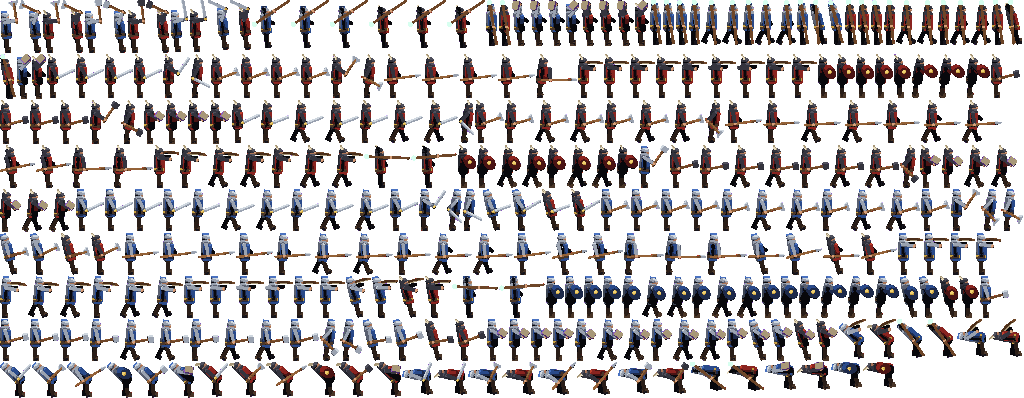
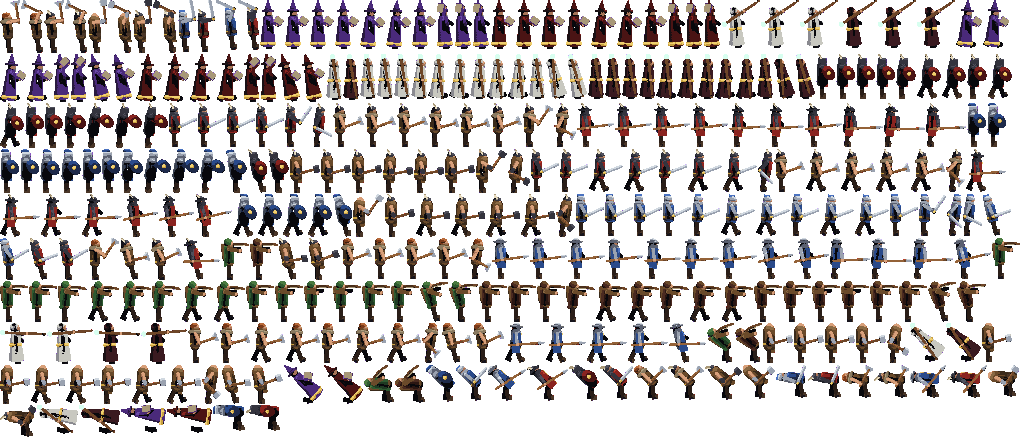
Fighter outfits per weapon; short numbers everywhere
Each weapon is its own kind of fighter on the battlefield: knight (Sword), berserker (Axe), pikeman (Spear),
ranger (Bow), healer (Staff), guard (Shield), forge brute (Warhammer) and wizard (Grimoire), in hero and foe colours.
Every number past 9,999 on screen now reads short the way the top bar does (12.3k, 4.5M, 6.7B), including stats,
power, the battle log and damage numbers; the top bar abbreviates from 10k too.

diff --git a/splat/art/toy-unit.js b/splat/art/toy-unit.js
@@ -1,7 +1,8 @@
 // Blacksmith Battles: one fighter for the Fight field, seen side on and facing right (the toy flips foes to face left).
 // Rendered alone against a flat backdrop, so tools/pack.py keeps just the figure as a cut-out.
 // Environment variables: UNIT_ARCH = Sword | Axe | Spear | Bow | Staff | Shield | Warhammer | Grimoire (what they carry),
-// UNIT_SIDE = hero | foe (blue tabard and bright steel, or a red tabard, dark iron and a horned helm), UNIT_NONE=1 draws only the backdrop.
+// UNIT_SIDE = hero | foe (bright steel and blue, or dark iron, red and horns), UNIT_NONE=1 draws only the backdrop. Each weapon has its own outfit:
+// knight (Sword), berserker (Axe), pikeman (Spear), ranger (Bow), healer (Staff), guard (Shield), forge brute (Warhammer), wizard (Grimoire).
 // The clip: idle 0-1 s (breathing), walk 1-2 (one full stride), attack 2-2.6 (the weapon's own move), hurt 3-3.3, down 4-4.5 (falls back).
 module.exports = ({ makeBuilder, makeSculpt, KIT: K }) => {
   const PAL = [
@@ -16,7 +17,16 @@ module.exports = ({ makeBuilder, makeSculpt, KIT: K }) => {
     0x2a5a3a, 0x7ae0b0, 0xd8fff0, // 24-26 staff gem
     0x4a2a6a, 0x8a5ac0, 0xd0b0ff, // 27-29 grimoire
     0xe8dcc0, 0xa89878, // 30-31 parchment, bowstring
-    0xff00ff // 32 backdrop (never in a figure)
+    0xff00ff, // 32 backdrop (never in a figure)
+    0x3a2a1a, 0x6a4a2a, 0x8a6a44, // 33-35 leather
+    0x5a4a38, 0x8a7a60, 0xb0a080, // 36-38 fur
+    0x1e3a22, 0x2e5a30, 0x4a7a40, // 39-41 ranger green
+    0x8a8a90, 0xc8c8c0, 0xeeeee4, // 42-44 white robe
+    0x2a1a40, 0x4a2a7a, 0x6a4aa8, // 45-47 wizard violet
+    0x3a2010, 0x7a3a1a, 0xb86a3a, // 48-50 hair, dark to ginger
+    0x6a6a6a, 0xb0b0b0, // 51-52 grey beard
+    0x2a1612, 0x4a2a20, // 53-54 brigand brown
+    0x1a1014, 0x3a1a20, 0x5a2028 // 55-57 cultist black-red
   ];
   function build(seed) {
     const env = (typeof process !== 'undefined' && process.env) || {};
@@ -34,27 +44,90 @@ module.exports = ({ makeBuilder, makeSculpt, KIT: K }) => {
     const ARM = FOE ? { r: [0, 10, 11, 12] } : { r: [0, 6, 7, 8, 9] };
     const CLOTH = FOE ? { r: [0, 16, 17, 18] } : { r: [0, 13, 14, 15] };
     const WOOD = { r: [0, 19, 20, 21] }, STEEL = { r: [0, 7, 8, 9] }, GOLD = { r: [0, 22, 23] };
+    let SLEEVE = ARM;
     if (!NONE) {
       // legs: near (z+) and far (z-), each hangs from the hip
       for (const [tag, z] of [['legF', 0.07], ['legB', -0.07]]) {
         S.tube([[0, 0.62, z], [0, 0.08, z]], 0.06, 0.055, TROUS, { tag, res: 0.012 });
         S.box([0.04, 0.05, z], [0.09, 0.05, 0.05], BOOT, { tag, res: 0.012 });
       }
-      // body: mail shirt, tabard over it, belt, head and helm
-      S.tube([[0, 0.58, 0], [0, 1.1, 0]], 0.15, 0.14, ARM, { tag: 'body', res: 0.014 });
-      S.box([0.05, 0.78, 0], [0.12, 0.27, 0.15], CLOTH, { tag: 'body', res: 0.012 });
-      S.box([0.0, 0.62, 0], [0.155, 0.03, 0.155], { r: [0, 3, 22] }, { tag: 'body', res: 0.01 });
-      S.ball([0.02, 1.24, 0], 0.11, SKIN, { tag: 'body', res: 0.012 });
-      S.ball([0.0, 1.29, 0], [0.125, 0.09, 0.125], ARM, { tag: 'body', res: 0.01 });
-      S.box([0.1, 1.24, 0], [0.02, 0.06, 0.01], ARM, { tag: 'body', res: 0.008 }); // nose guard
-      if (FOE) for (const sz of [-1, 1]) S.tube([[-0.02, 1.33, sz * 0.09], [-0.1, 1.48, sz * 0.15]], 0.025, 0.006, { r: [0, 30, 31] }, { tag: 'body', res: 0.008 });
-      else S.box([-0.02, 1.4, 0], [0.09, 0.03, 0.015], CLOTH, { tag: 'body', res: 0.008 }); // crest
+      // the body, dressed for the weapon they carry: every weapon is its own kind of fighter
+      const LEATHER = { r: [0, 33, 34, 35] }, FUR = { r: [0, 36, 37, 38] };
+      const HOOD = FOE ? { r: [0, 53, 54, 34] } : { r: [0, 39, 40, 41] };
+      const ROBE = FOE ? { r: [0, 55, 56, 57] } : { r: [0, 42, 43, 44] };
+      const WIZ = FOE ? { r: [0, 55, 16, 17] } : { r: [0, 45, 46, 47] };
+      const HAIR = FOE ? { r: [0, 1, 48] } : { r: [0, 48, 49, 50] }, GREY = { r: [0, 51, 52] };
+      const b = { tag: 'body', res: 0.012 }, f = { tag: 'body', res: 0.008 };
+      const horns = (y, wide) => { if (FOE) for (const sz of [-1, 1]) S.tube([[-0.02, y, sz * 0.09], [-0.1, y + 0.15, sz * (wide || 0.15)]], 0.025, 0.006, { r: [0, 30, 31] }, f); };
+      const robe = (m, top) => { S.lathe([0, 0.1, 0], top - 0.1, t => 0.25 - 0.12 * t, m, b); };
+      SLEEVE = ARM;
+      S.ball([0.02, 1.24, 0], 0.11, SKIN, b); // the head
+      if (ARCH === 'Sword') { // knight: mail, tabard, round helm with a crest
+        S.tube([[0, 0.58, 0], [0, 1.1, 0]], 0.15, 0.14, ARM, { tag: 'body', res: 0.014 });
+        S.box([0.05, 0.78, 0], [0.12, 0.27, 0.15], CLOTH, b);
+        S.box([0.0, 0.62, 0], [0.155, 0.03, 0.155], { r: [0, 3, 22] }, { tag: 'body', res: 0.01 });
+        S.ball([0.0, 1.29, 0], [0.125, 0.09, 0.125], ARM, { tag: 'body', res: 0.01 });
+        S.box([0.1, 1.24, 0], [0.02, 0.06, 0.01], ARM, f); // nose guard
+        if (FOE) horns(1.33); else S.box([-0.02, 1.4, 0], [0.09, 0.03, 0.015], CLOTH, f); // crest
+      } else if (ARCH === 'Axe') { // berserker: bare arms, leather, a fur mantle, wild hair and beard
+        SLEEVE = SKIN;
+        S.tube([[0, 0.58, 0], [0, 1.1, 0]], 0.15, 0.15, LEATHER, { tag: 'body', res: 0.014 });
+        S.ball([-0.01, 1.07, 0], [0.21, 0.09, 0.21], FUR, b);
+        S.box([0.0, 0.62, 0], [0.16, 0.035, 0.16], { r: [0, 3, 22] }, f);
+        S.ball([-0.02, 1.3, 0], [0.12, 0.08, 0.12], HAIR, f);
+        S.ball([-0.08, 1.22, 0], [0.07, 0.1, 0.1], HAIR, f); // hair down the back
+        S.ball([0.1, 1.16, 0], [0.05, 0.08, 0.07], HAIR, f); // beard
+        if (FOE) { S.ball([0.0, 1.31, 0], [0.12, 0.07, 0.12], ARM, f); horns(1.33, 0.2); }
+      } else if (ARCH === 'Spear') { // pikeman: long quartered tabard and a broad-brimmed kettle hat
+        S.tube([[0, 0.58, 0], [0, 1.1, 0]], 0.15, 0.14, ARM, { tag: 'body', res: 0.014 });
+        S.box([0.05, 0.72, 0], [0.12, 0.33, 0.155], CLOTH, b);
+        S.box([0.06, 0.72, 0], [0.12, 0.33, 0.02], GOLD, f); // a stripe down the middle
+        S.ball([0.0, 1.31, 0], [0.115, 0.08, 0.115], ARM, f);
+        S.ball([0.0, 1.28, 0], [0.21, 0.018, 0.21], ARM, f); // brim
+        horns(1.34);
+      } else if (ARCH === 'Bow') { // ranger: leather jerkin, a hood and cloak, a quiver on the back
+        SLEEVE = LEATHER;
+        S.tube([[0, 0.58, 0], [0, 1.1, 0]], 0.14, 0.13, LEATHER, { tag: 'body', res: 0.014 });
+        S.box([0.04, 0.82, 0], [0.11, 0.22, 0.14], HOOD, b);
+        S.box([-0.13, 0.82, 0], [0.03, 0.34, 0.15], HOOD, b); // cloak
+        S.ball([-0.03, 1.27, 0], [0.13, 0.135, 0.13], HOOD, f); // hood, the face showing in front
+        S.tube([[-0.16, 0.72, 0.06], [-0.22, 1.18, 0.06]], 0.045, 0.045, LEATHER, f);
+        for (const dz of [-0.02, 0.02]) S.tube([[-0.22, 1.18, 0.06 + dz], [-0.24, 1.26, 0.06 + dz]], 0.012, 0.004, { r: [30, 44] }, f);
+      } else if (ARCH === 'Staff') { // healer: a long robe with a rope belt, a hood and a grey beard
+        SLEEVE = ROBE;
+        robe(ROBE, 1.12);
+        S.box([0.0, 0.66, 0], [0.2, 0.025, 0.2], GOLD, f);
+        S.ball([-0.03, 1.27, 0], [0.13, 0.13, 0.13], ROBE, f);
+        S.ball([0.1, 1.15, 0], [0.04, 0.09, 0.06], FOE ? HAIR : GREY, f);
+      } else if (ARCH === 'Shield') { // guard: heavy plate, big pauldrons, a flat-topped great helm with a plume
+        S.tube([[0, 0.58, 0], [0, 1.1, 0]], 0.17, 0.16, ARM, { tag: 'body', res: 0.014 });
+        S.box([0.06, 0.74, 0], [0.12, 0.3, 0.16], CLOTH, b);
+        for (const z of [-0.18, 0.18]) S.ball([0, 1.08, z], [0.1, 0.07, 0.09], ARM, f);
+        S.box([0.01, 1.27, 0], [0.12, 0.13, 0.12], ARM, f);
+        S.box([0.13, 1.28, 0], [0.006, 0.012, 0.08], { r: [0] }, f); // visor slit
+        if (FOE) horns(1.38); else S.ball([-0.03, 1.45, 0], [0.12, 0.05, 0.03], CLOTH, f); // plume
+      } else if (ARCH === 'Warhammer') { // forge brute: stocky, leather apron, bald with a great beard, iron bracers
+        SLEEVE = SKIN;
+        S.tube([[0, 0.58, 0], [0, 1.1, 0]], 0.18, 0.18, LEATHER, { tag: 'body', res: 0.014 });
+        S.box([0.13, 0.7, 0], [0.05, 0.33, 0.15], { r: [0, 33, 34] }, b); // apron
+        S.box([0.0, 0.62, 0], [0.19, 0.035, 0.19], { r: [0, 3, 22] }, f);
+        S.ball([0.11, 1.14, 0], [0.07, 0.12, 0.09], HAIR, f); // the great beard
+        if (FOE) { S.ball([0.0, 1.31, 0], [0.12, 0.07, 0.12], ARM, f); horns(1.33, 0.2); }
+      } else if (ARCH === 'Grimoire') { // wizard: a robe with gold trim, a tall pointed hat, a long beard
+        SLEEVE = WIZ;
+        robe(WIZ, 1.12);
+        S.box([0.0, 0.18, 0], [0.24, 0.03, 0.24], GOLD, f);
+        S.ball([0.0, 1.32, 0], [0.2, 0.02, 0.2], WIZ, f); // brim
+        S.lathe([0, 1.32, 0], 0.36, t => 0.115 * (1 - t), WIZ, f);
+        S.ball([0.1, 1.11, 0], [0.04, 0.13, 0.06], FOE ? HAIR : GREY, f);
+      }
       // the off arm (far side): holds the bow; otherwise swings while walking
       const SHO = [0.0, 1.05, -0.17], HO = [0.02, 0.66, -0.2];
-      S.tube([SHO, HO], 0.045, 0.04, ARM, { tag: 'armO', res: 0.012 });
+      S.tube([SHO, HO], 0.045, 0.04, SLEEVE, { tag: 'armO', res: 0.012 });
       // the weapon arm (near side) and the weapon in its hand, sculpted hanging straight down
       const SH = [0.0, 1.05, 0.17], H = [0.02, 0.66, 0.2];
-      S.tube([SH, H], 0.045, 0.04, ARM, { tag: 'armW', res: 0.012 });
+      S.tube([SH, H], 0.045, 0.04, SLEEVE, { tag: 'armW', res: 0.012 });
+      if (SLEEVE === SKIN && ARCH === 'Warhammer') S.tube([[0.0, 0.8, 0.19], [0.015, 0.7, 0.2]], 0.052, 0.05, ARM, { tag: 'armW', res: 0.01 }); // bracer
       S.ball(H, 0.045, SKIN, { tag: 'armW', res: 0.01 });
       const [hx, hy, hz] = H, w = { tag: 'armW', res: 0.01 };
       if (ARCH === 'Sword') {

diff --git a/index.html b/index.html
@@ -516,7 +516,7 @@ const $=s=>document.querySelector(s);
 const esc=s=>String(s).replace(/[&<>"]/g,c=>({'&':'&amp;','<':'&lt;','>':'&gt;','"':'&quot;'}[c]));
 function chips(){
   $('#res').innerHTML=[
-    ['Ore',S.ore<1e6?Math.floor(S.ore):fmtN(S.ore)],['Gold',S.gold<1e6?Math.floor(S.gold):fmtN(S.gold)],['Renown',S.renown],['Rating',S.rating] // Ward Oil lives in the Library and Etch screens (Jonathan, 2026-11-17)
+    ['Ore',fmtN(Math.floor(S.ore))],['Gold',fmtN(Math.floor(S.gold))],['Renown',fmtN(S.renown)],['Rating',fmtN(S.rating)] // Ward Oil lives in the Library and Etch screens (Jonathan, 2026-11-17)
   
   ].map(([k,v])=>`<span class="chip"><small>${k}</small>${v}</span>`).join('');
 }
@@ -653,6 +653,14 @@ function shopView(){revealUnits();
 }
 let uOpen=null;
 const fmtR=n=>n<100?String(Math.round(n*10)/10):fmtN(n);
+// every number on screen reads short past 9,999 (12.3k, 4.5M, 6.7B...) the way fmtN writes it, wherever it was printed:
+// stats, power, costs, the battle log, damage pops (Jonathan, 2026-11-19). Text only; inputs and code are left alone.
+const BIGNUM=/(^|[^\w.])(\d{5,})(?![\w.])/g;
+function shortNums(root){const w=document.createTreeWalker(root,NodeFilter.SHOW_TEXT,{acceptNode:n=>/^(SCRIPT|STYLE|TEXTAREA)$/.test(n.parentNode&&n.parentNode.nodeName)?NodeFilter.FILTER_REJECT:NodeFilter.FILTER_ACCEPT});
+  const hits=[];while(w.nextNode()){const n=w.currentNode;if(/\d{5}/.test(n.data))hits.push(n)}
+  for(const n of hits){const v=n.data.replace(BIGNUM,(m,pre,d)=>pre+fmtN(+d));if(v!==n.data)n.data=v}}
+if(window.MutationObserver)new MutationObserver(ms=>{for(const m of ms){if(m.type==='characterData'){if(/\d{5}/.test(m.target.data))shortNums(m.target.parentNode||document.body)}else for(const a of m.addedNodes){if(a.nodeType===3?/\d{5}/.test(a.data):a.nodeType===1)shortNums(a.nodeType===3?a.parentNode:a)}}}).observe(document.documentElement,{childList:true,subtree:true,characterData:true});
+document.addEventListener('DOMContentLoaded',()=>shortNums(document.body));
 function unitRow(u){const c=unitCost(u.k),got=u.ms.filter(([n])=>U(u.k)>=n),more=got.length<u.ms.length,open=uOpen===u.k,each=Math.round(unitOre(u.k)*100)/100,tot=Math.round(U(u.k)*unitOre(u.k)*10)/10;
   return `<div class="order"><div class="uhead" data-uinfo="${u.k}" role="button" aria-expanded="${open}"><div class="uline"><b>${u.n}</b> ×${U(u.k)} · <span style="color:var(--gold)">${fmtR(each)} ea · ${fmtR(tot)}/s</span> <span class="chev">${open?'▴':'▾'}</span></div>
     ${more&&!open?`<div class="note" style="color:var(--muted)">? More to discover</div>`:''}

diff --git a/sw.js b/sw.js
@@ -1,5 +1,5 @@
 // Offline support: the game page is fetched fresh when online (so updates arrive) and served from cache when offline.
-const C='bb-v12';
+const C='bb-v13';
 self.addEventListener('install',e=>{e.waitUntil(caches.open(C).then(c=>c.addAll(['./','index.html','splat/splat-scenes.js','splat/forge.json','splat/forge.png','splat/mine.json','splat/mine.png','splat/jobs.json','splat/jobs.png','splat/orders.json','splat/orders.png','splat/armory.json','splat/armory.png','splat/barracks.json','splat/barracks.png','splat/units.json','splat/units.png','splat/field.png','splat/library.json','splat/library.png','splat/sanctum.json','splat/sanctum.png','splat/upg.json','splat/upg.png','manifest.webmanifest','icon-192.png','icon-512.png','apple-touch-icon.png'])));self.skipWaiting()});
 self.addEventListener('activate',e=>e.waitUntil(self.clients.claim()));
 self.addEventListener('fetch',e=>{const r=e.request;if(r.method!=='GET')return;
